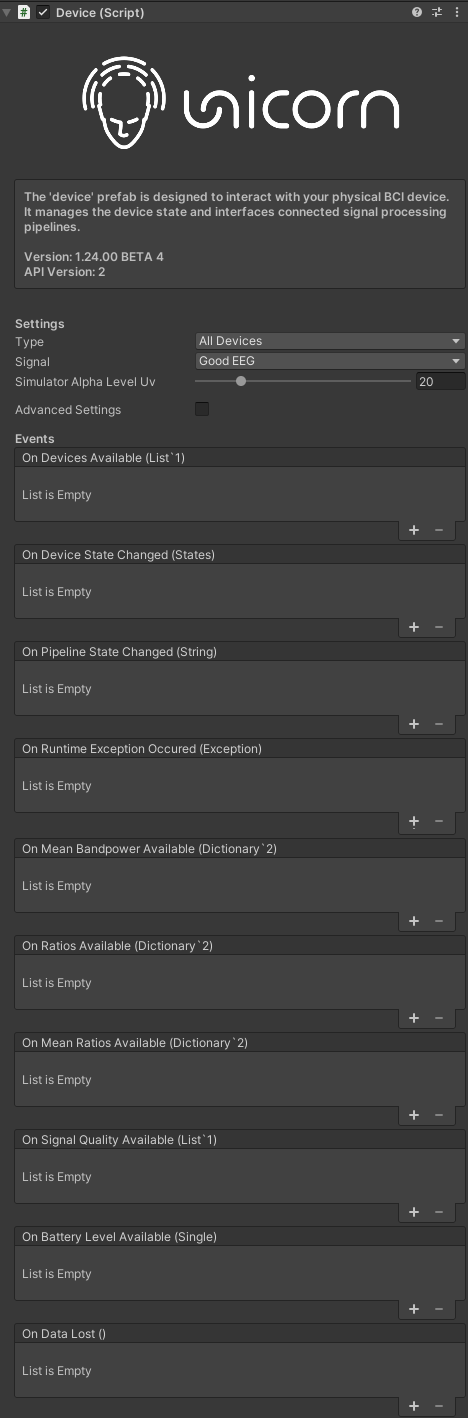
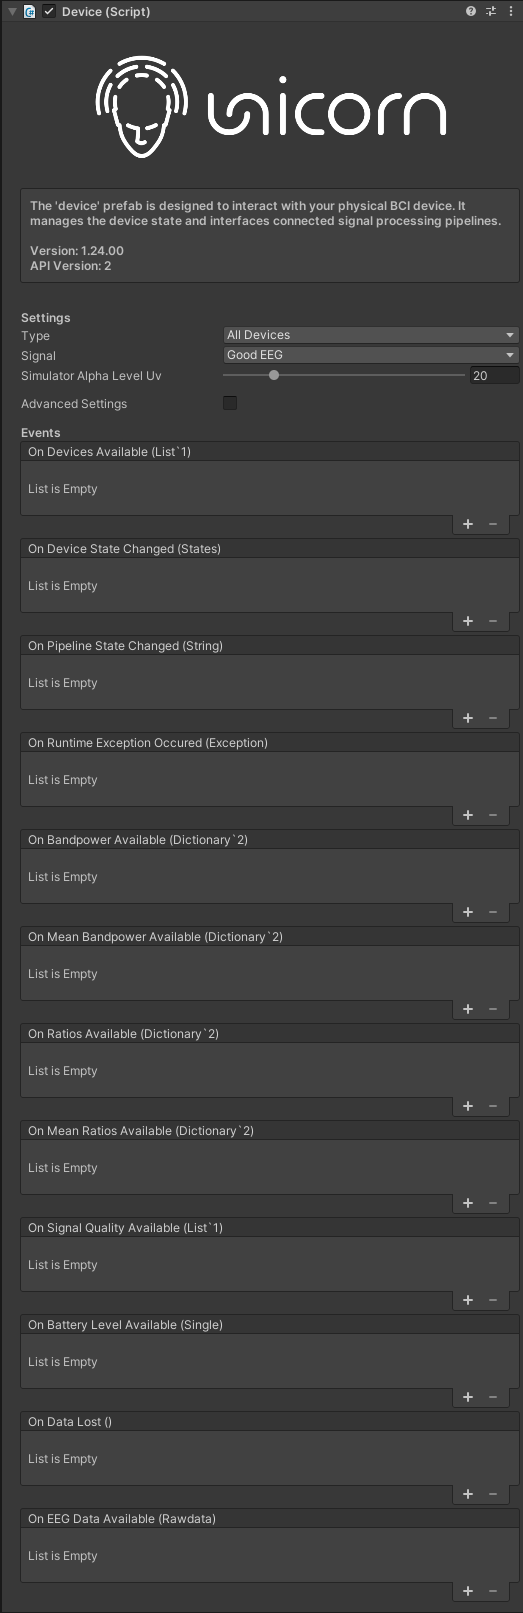
updated manual

diff --git a/README.md b/README.md
@@ -81,7 +81,7 @@ It is possible to modify the buffersize and buffer overlap used for bandpower ca
 
 $$ f_{bandpower} =  {1 \over {(buffersize - bufferoverlap) \over samplingrate}} $$
 
-#### Frequency Ranges
+#### Frequencyband Settings
 
 The Unity Bandpower interface is estimating bandpower for various frequency bands. It is possible to modify the cutoff frequencies of each calculated frequency band in the advanced settings.
 
@@ -95,6 +95,10 @@ $$ ThetaAlphaRatio =  {theta \over alpha} $$
 $$ ThetaBetaRatio =  {theta \over beta} $$
 $$ ThetaBetaAlphaRatio =  {theta \over alpha + beta} $$
 $$ EngagementIndex =  {beta \over theta + alpha} $$
+
+#### EEG Data Settings
+
+It is possible to set the output data rate of EEG in the EEG Data Settings. Data is buffered and output as [samples, channels] array to match the defined output data rate.
 
 ### Events
 
@@ -143,6 +147,10 @@ The event called when battery level data is available.
 #### OnDataLost
 The event called when data is lost.
 <br>Event data: None
+
+#### OnEEGDataAvailable
+The event called when raw data is available
+<br>Event data: Dictionary&#x003c;Rawdata&#x003e;
 
 ### Connection Dialog
 
